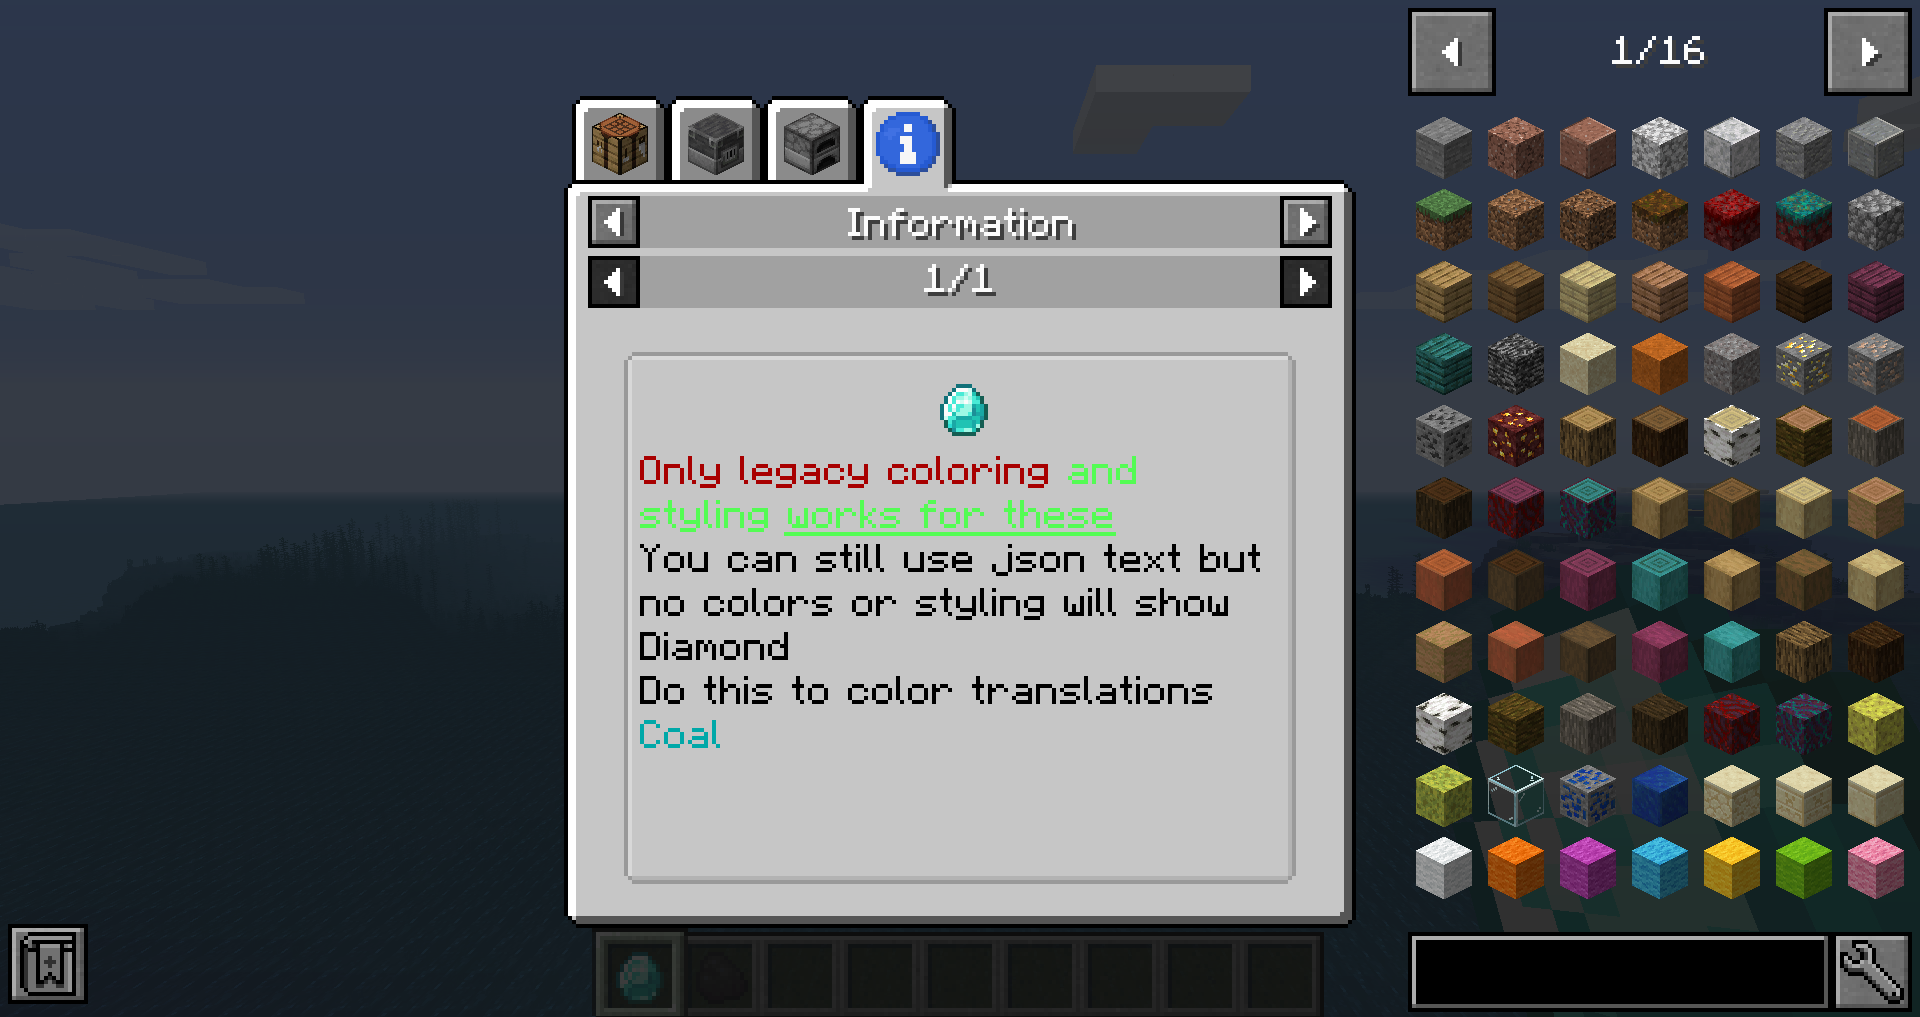
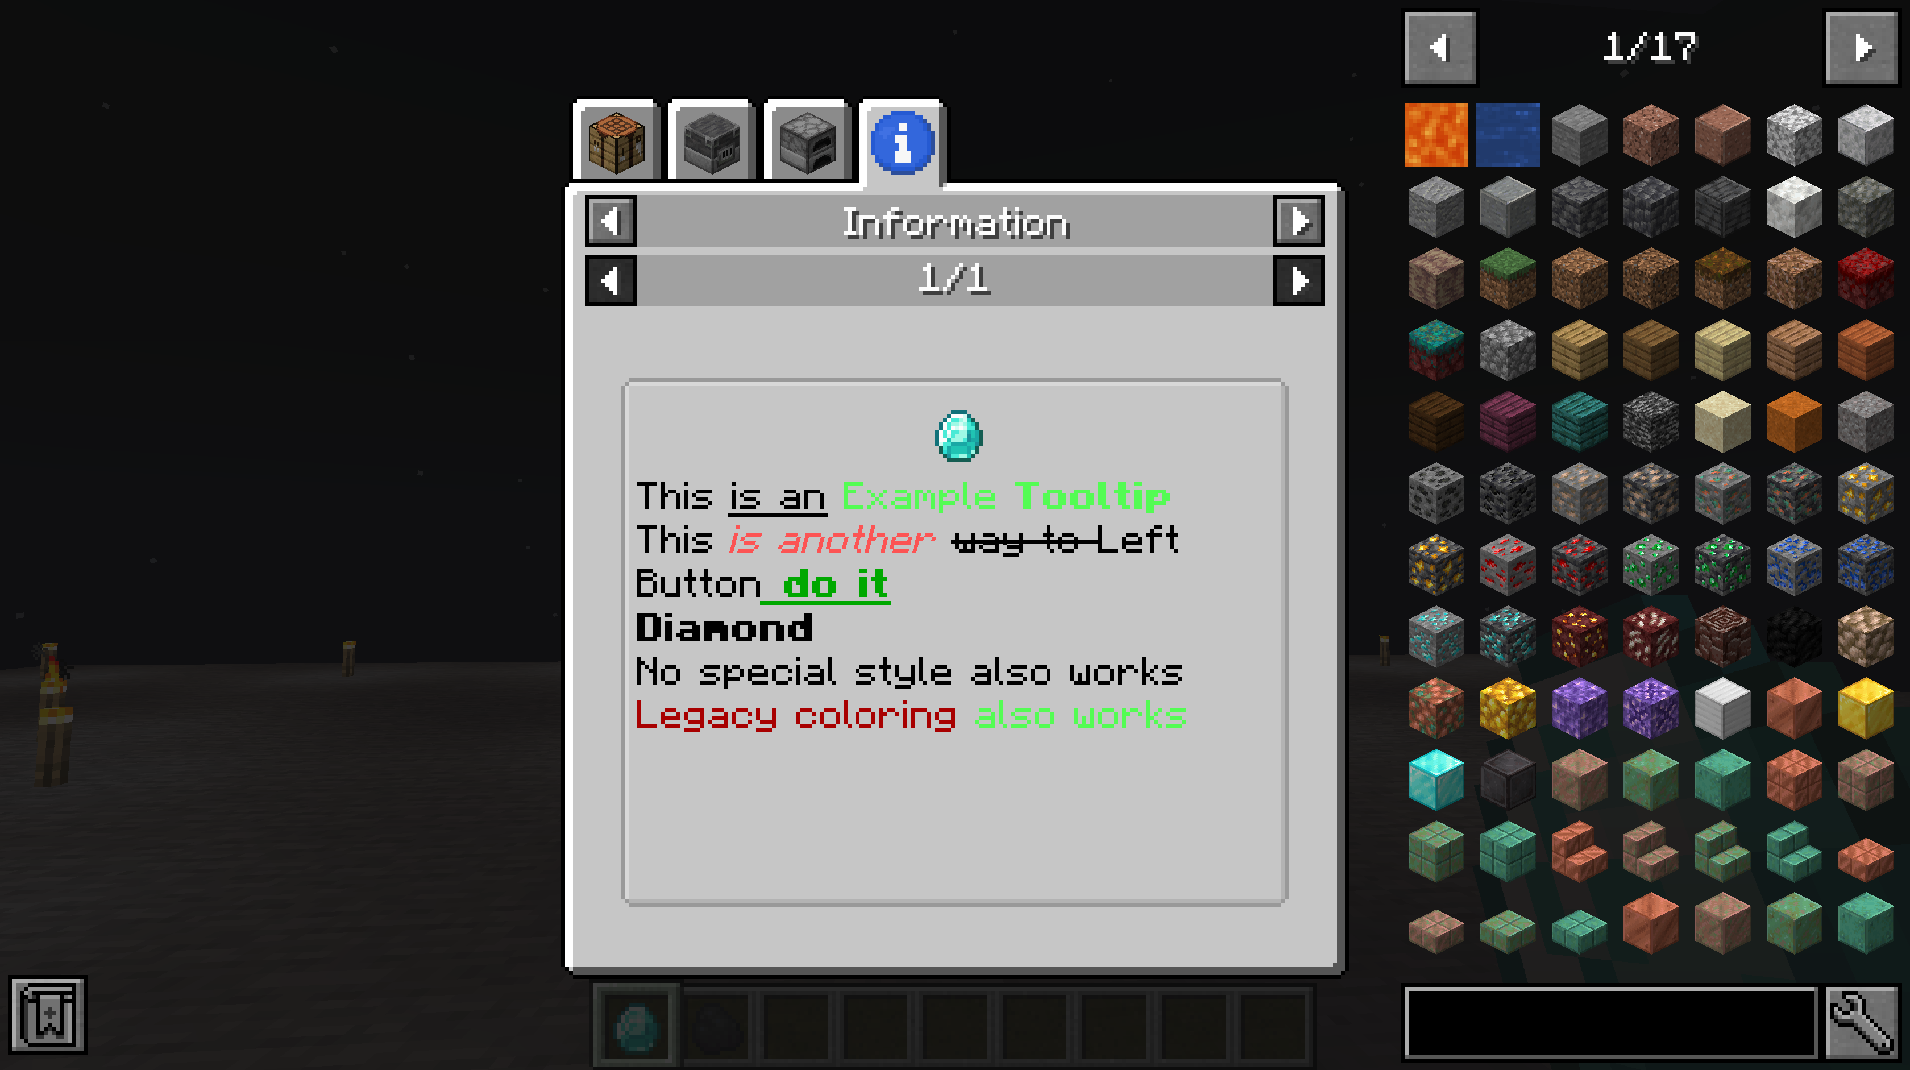
doc: update readme and images for fixed jei info screens

diff --git a/README.md b/README.md
@@ -38,10 +38,11 @@ The json text can for example be generated with the help of [minecraftjson.com](
         "minecraft:coal"
     ],
     "infos": [
-        "§4Only legacy coloring §aand styling §nworks for these",
-        "You can still use json text but no colors or styling will show",
+        {"text":"This ", "extra": [{"text":"is an","underlined":true},{"text":" Example ","color":"green"},{"text":"Tooltip","bold":true,"color":"green"}]},
+        ["",{"text":"This "},{"text":"is another ","italic":true,"color":"red"},{"text":"way to ","strikethrough":true},{"keybind":"key.attack"},{"text":" do it","bold":true,"underlined":true,"color":"dark_green"}],
         {"translate":"item.minecraft.diamond","bold":true},
-        [{"text": "Do this to color translations "},{"text":"§3"},{"translate":"item.minecraft.coal"}]
+        "No special style also works",
+        "§4Legacy coloring §aalso works"
     ]
 }
 ```
